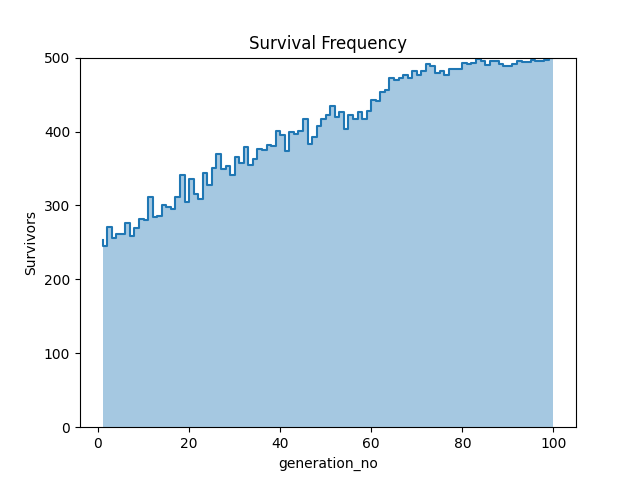
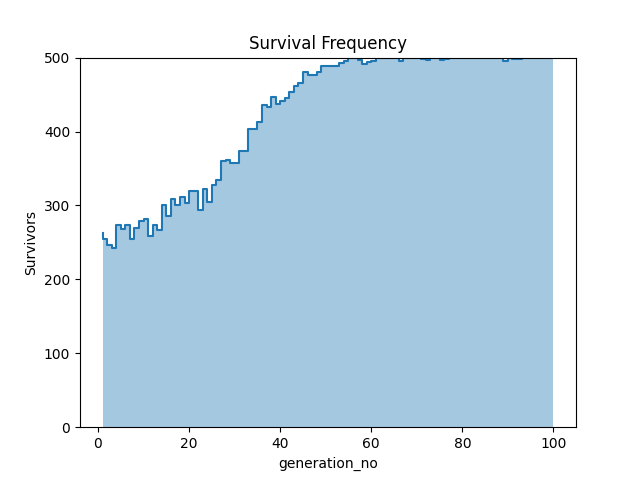
8 chromosomes

Changed region(s): [[0.1562, 0.125, 0.8438, 0.5312]]

diff --git a/individual.py b/individual.py
@@ -1,6 +1,6 @@
 import numpy as np
 
-def random_individual_generator(num_chromosomes=16):
+def random_individual_generator(num_chromosomes=8):
 	genes = np.random.rand(num_chromosomes*22)
 	genes = ''.join([i for i in np.where(genes>0.5, "1", "0")])
 	genes = [genes[i:i+22] for i in range(0, len(genes), 22)]
@@ -120,7 +120,7 @@ def make_children_function(individual_1, individual_2):
 	gene_sequence_1 = np.array([int(i) for i in "".join(individual_1["bin_genes"])])
 	gene_sequence_2 = np.array([int(i) for i in "".join(individual_2["bin_genes"])])
 	gene_sequence = np.where(np.random.randn(len(gene_sequence_1))>0.5, gene_sequence_1, gene_sequence_2)
-	gene_sequence = np.where(np.random.randn(len(gene_sequence))>(2/(len(gene_sequence)*100)), gene_sequence, 1-gene_sequence)
+	#gene_sequence = np.where(np.random.randn(len(gene_sequence))>0, gene_sequence, 1-gene_sequence)
 	gene_sequence = "".join([str(i) for i in gene_sequence])
 	gene_sequence = [gene_sequence[i:i+22] for i in range(0, len(gene_sequence), 22)]
 	return gene_sequence
